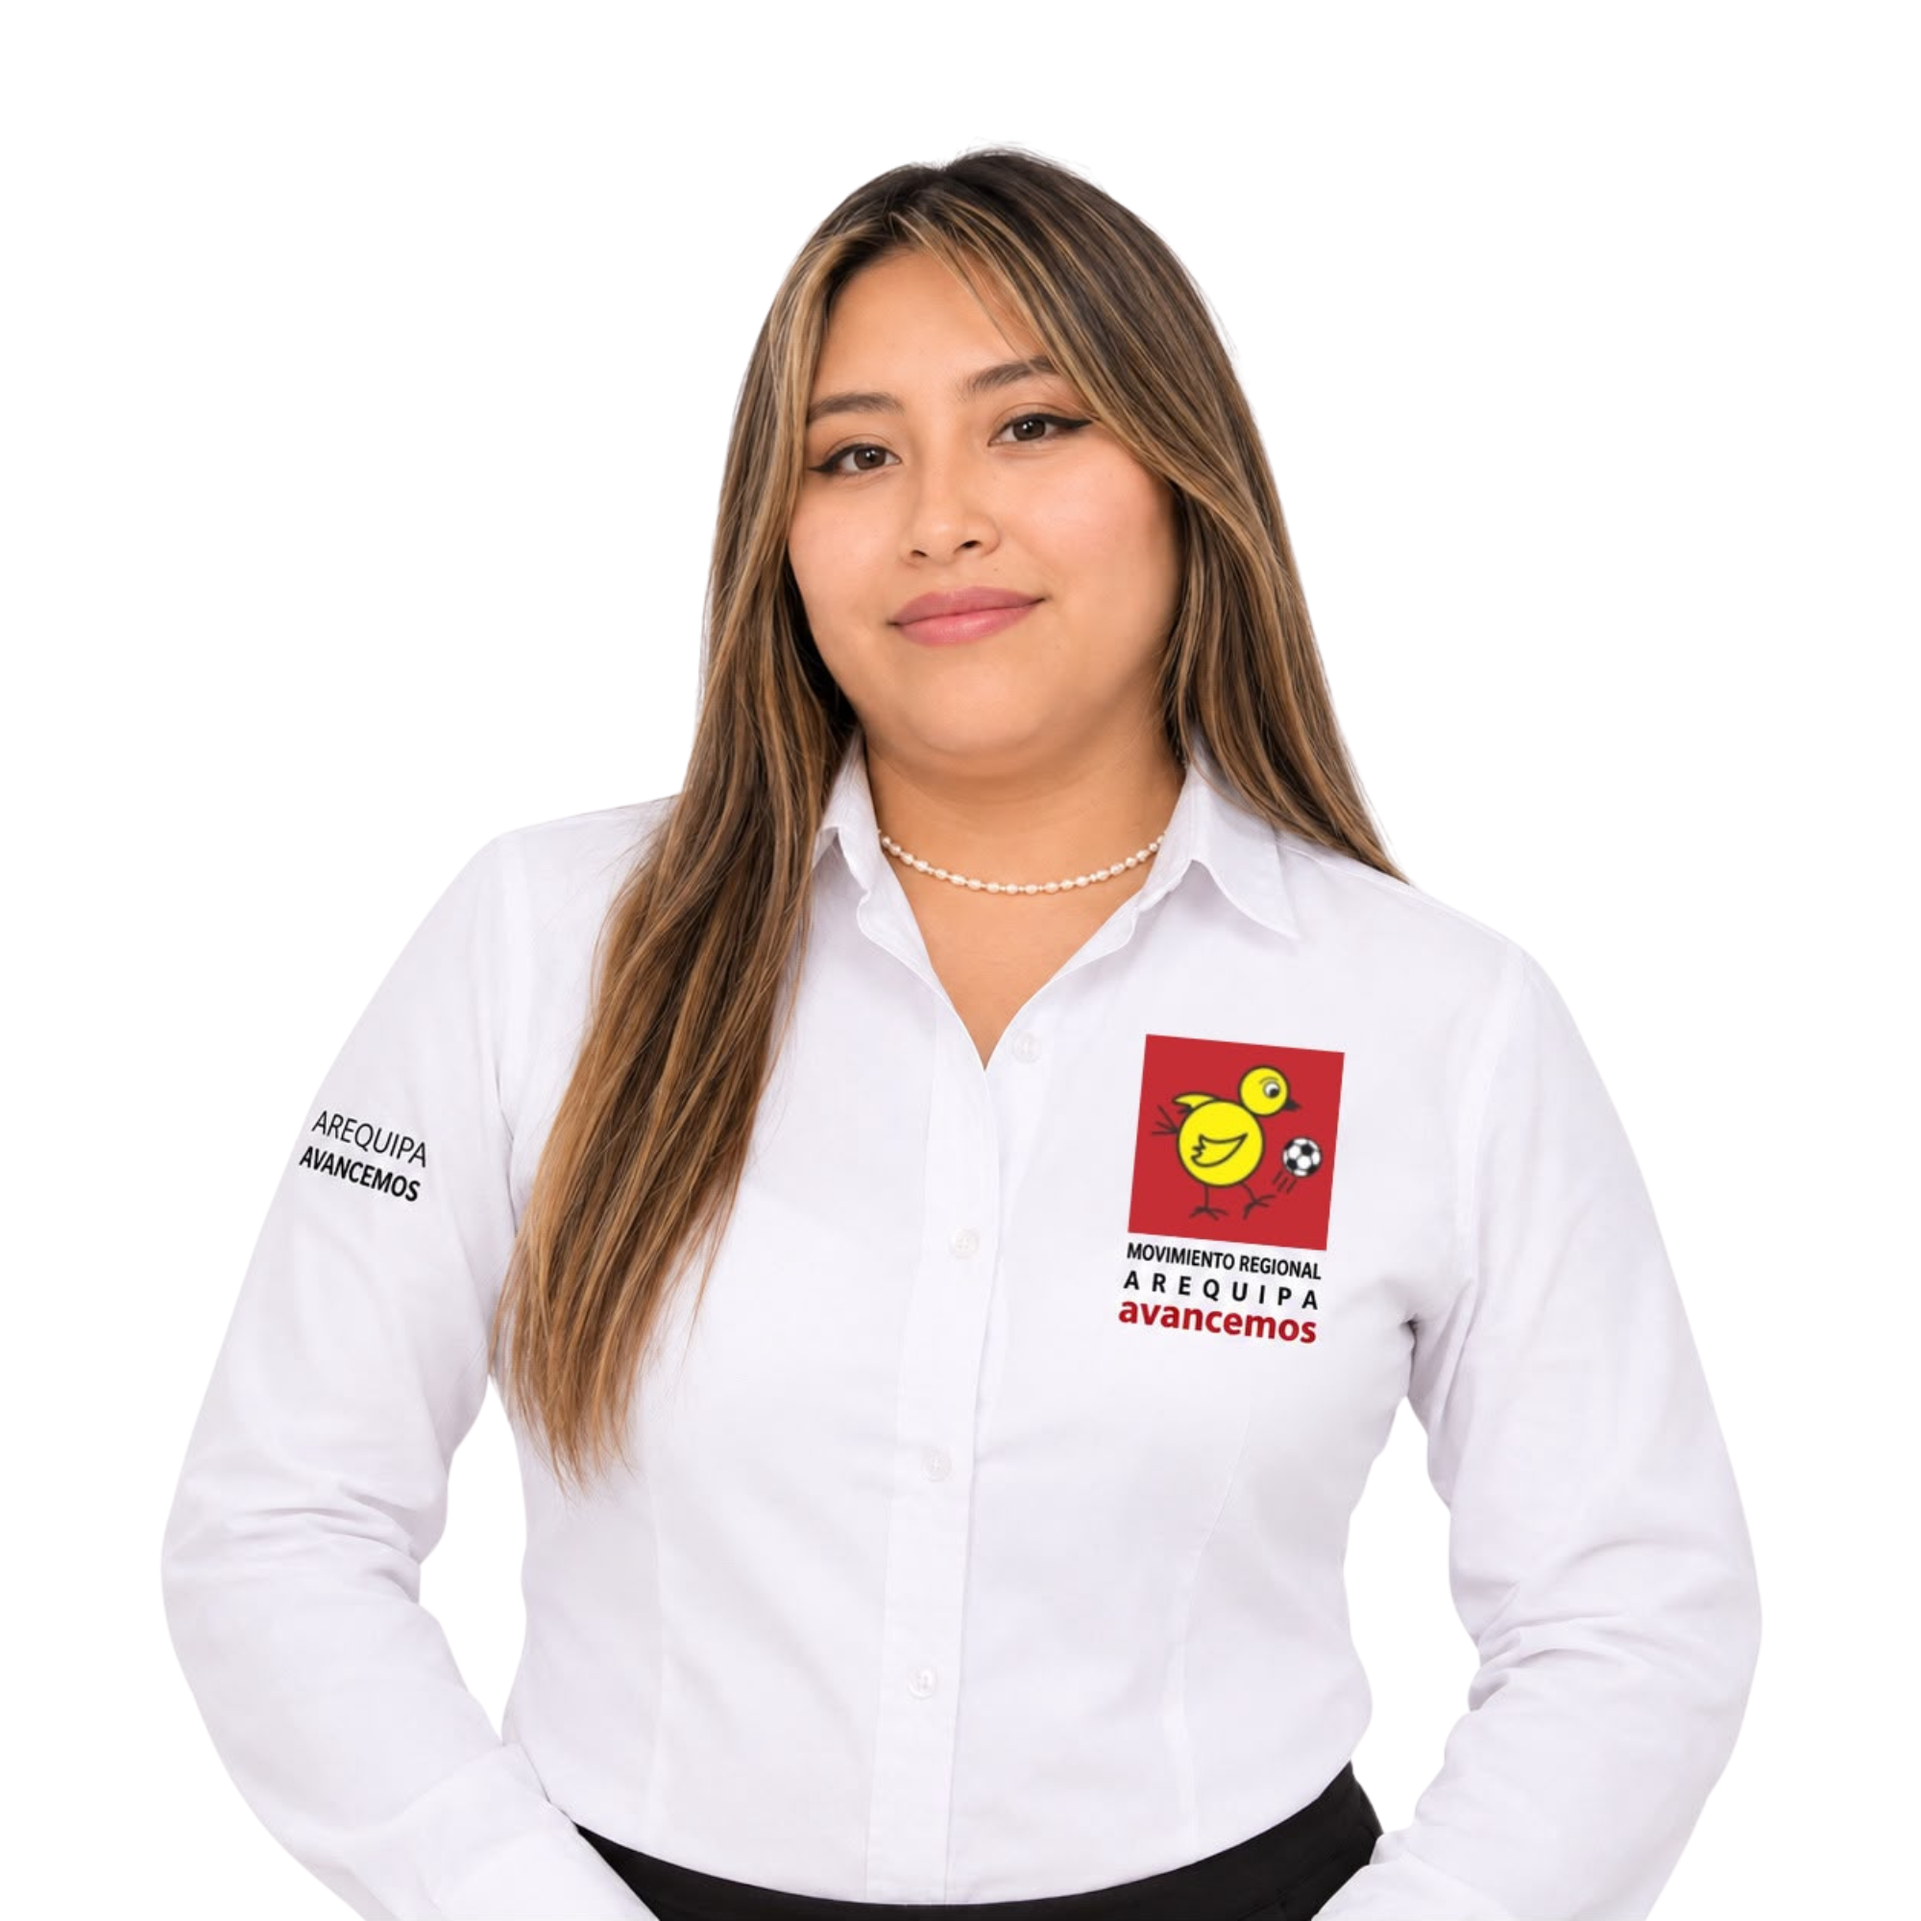
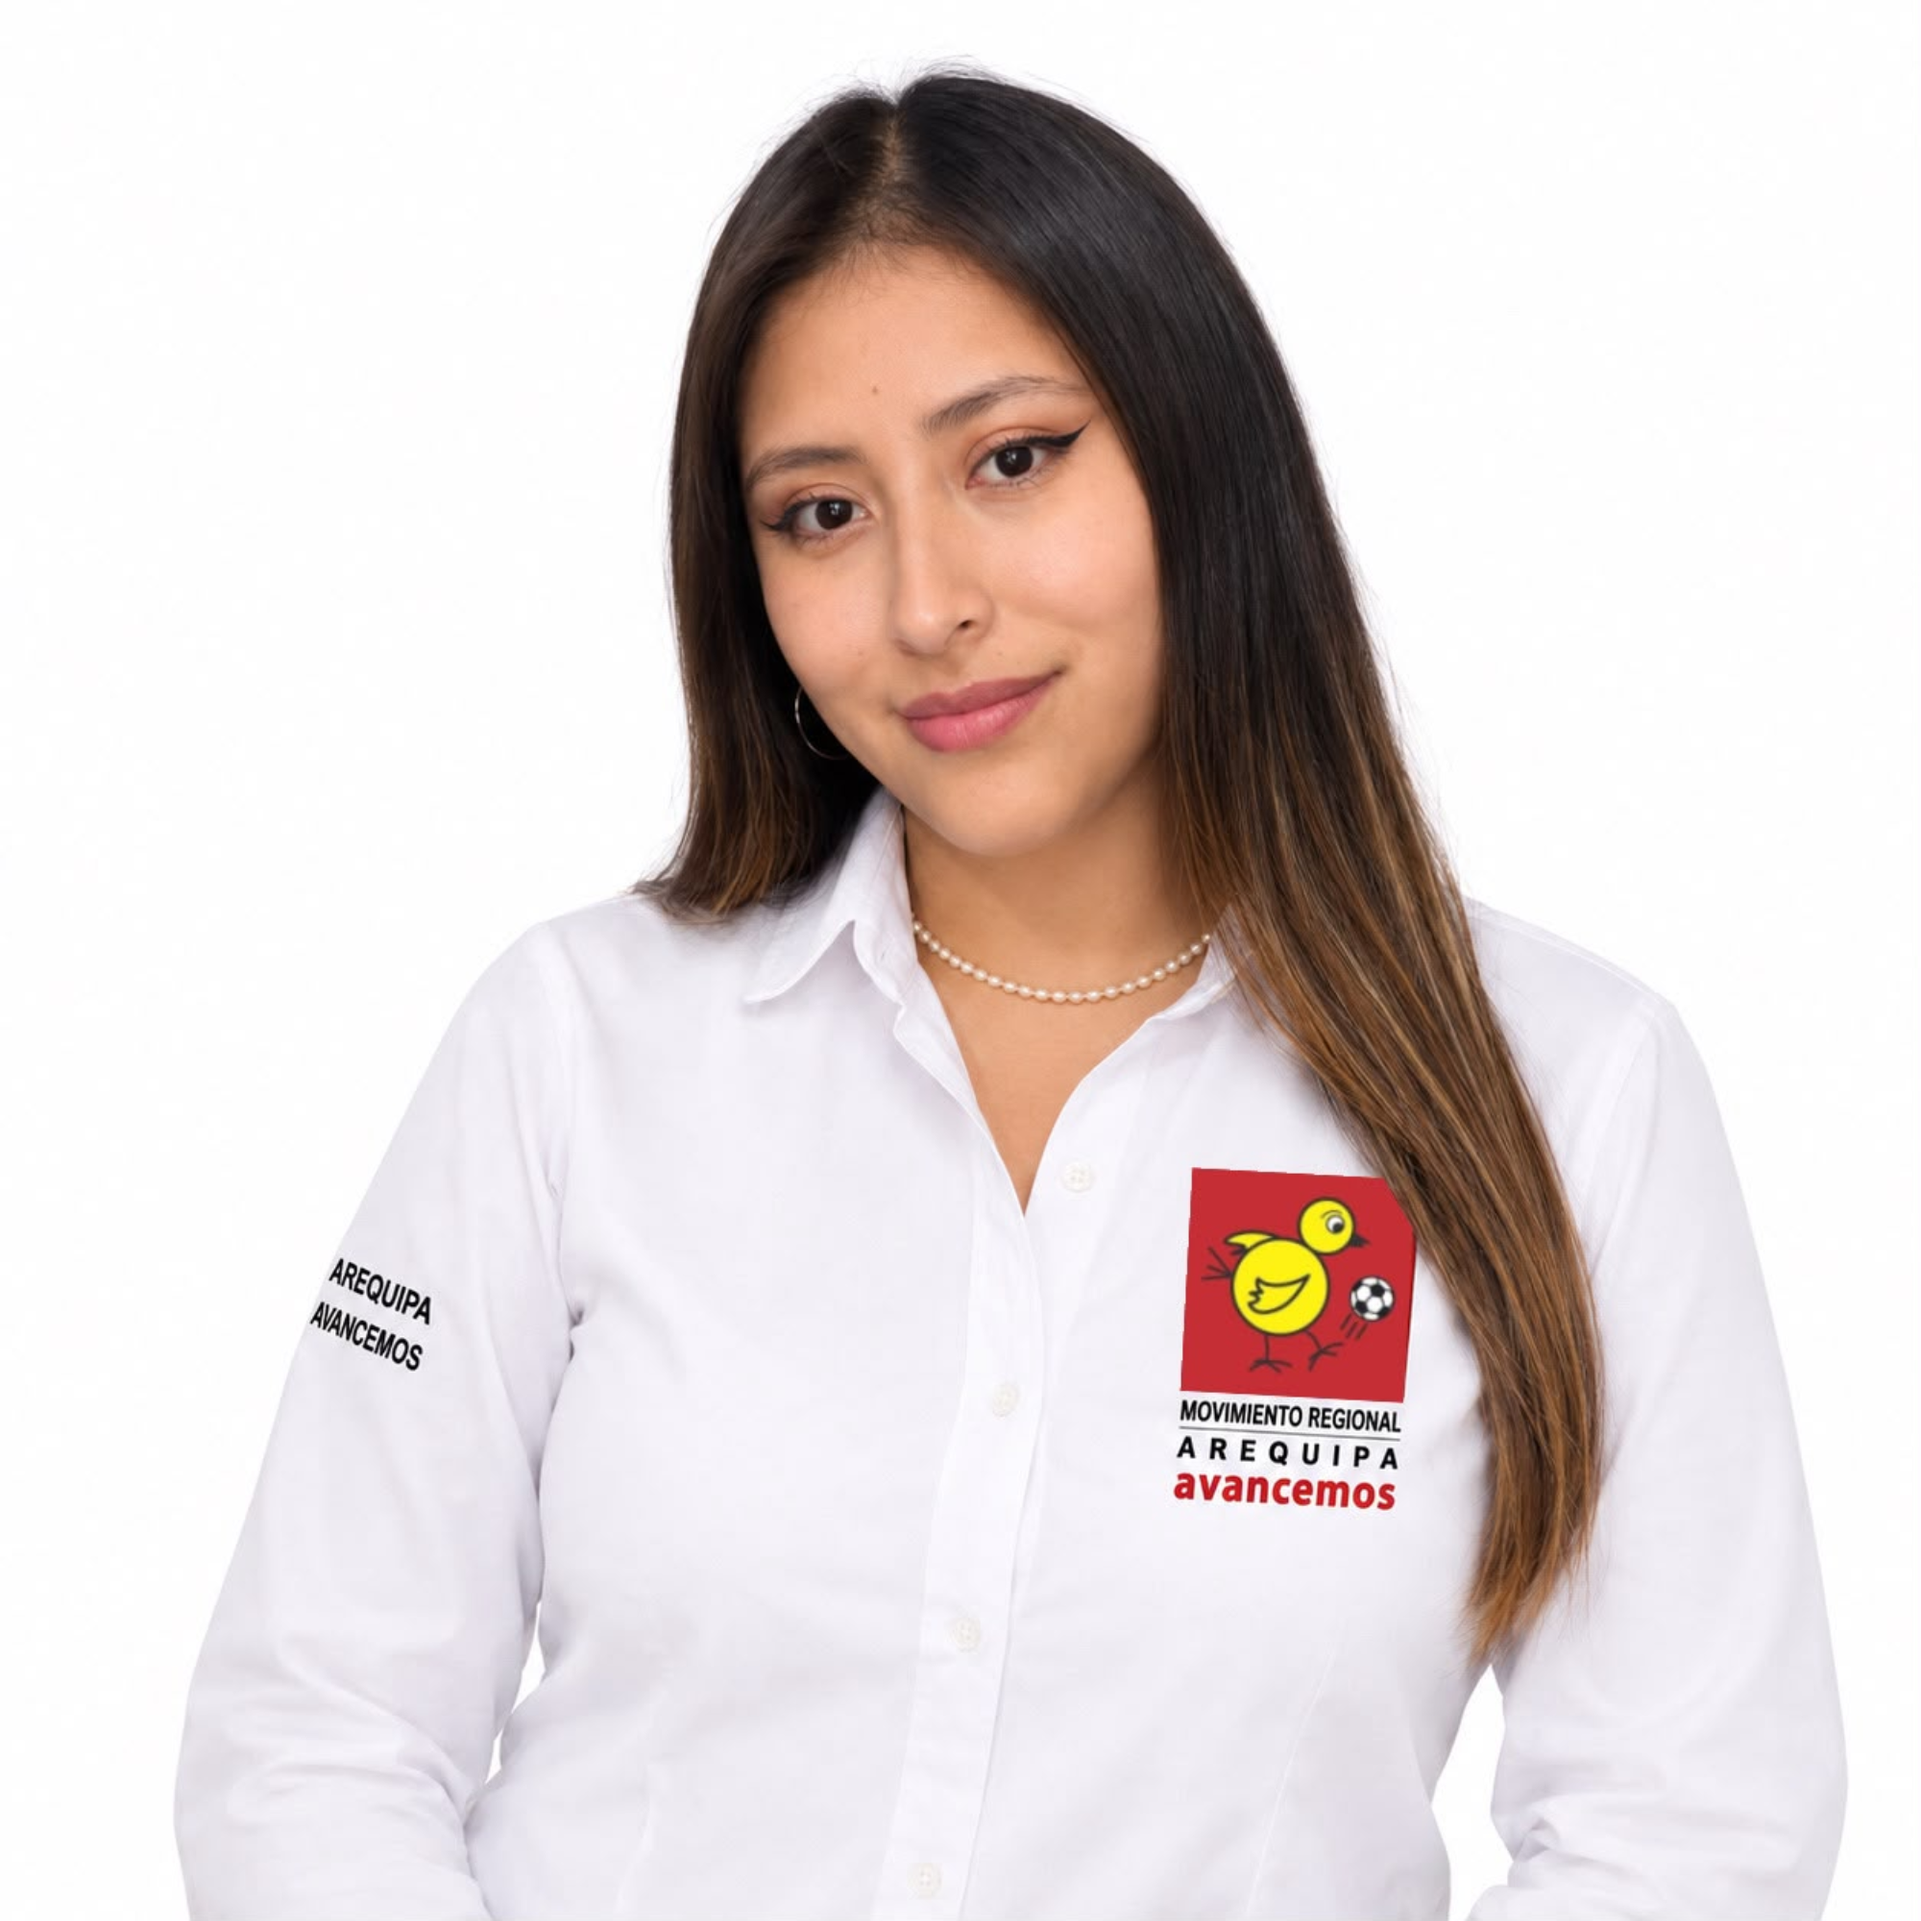
corecciones

diff --git a/src/components/CandidatoModal.jsx b/src/components/CandidatoModal.jsx
@@ -1,5 +1,12 @@
-import { AnimatePresence, motion } from 'framer-motion'
-import { Briefcase, CheckCircle2, Facebook, GraduationCap, Instagram, MessageCircle, X } from 'lucide-react'
+import { AnimatePresence, motion } from "framer-motion";
+import {
+  Briefcase,
+  CheckCircle2,
+  Facebook,
+  GraduationCap,
+  X,
+} from "lucide-react";
+import { FaTiktok } from "react-icons/fa6";
 
 export default function CandidatoModal({ candidato, onClose }) {
   return (
@@ -16,10 +23,12 @@ export default function CandidatoModal({ candidato, onClose }) {
             initial={{ opacity: 0, y: 40, scale: 0.96 }}
             animate={{ opacity: 1, y: 0, scale: 1 }}
             exit={{ opacity: 0, y: 20, scale: 0.96 }}
-            transition={{ duration: 0.3, ease: 'easeOut' }}
+            transition={{ duration: 0.3, ease: "easeOut" }}
             onClick={(e) => e.stopPropagation()}
             className="relative bg-white rounded-3xl shadow-2xl max-w-3xl w-full max-h-[90vh] overflow-y-auto"
           >
+
+            {/* BOTÓN CERRAR */}
             <button
               onClick={onClose}
               aria-label="Cerrar"
@@ -28,84 +37,197 @@ export default function CandidatoModal({ candidato, onClose }) {
               <X size={18} />
             </button>
 
+
+            {/* CONTENIDO PRINCIPAL */}
             <div className="grid sm:grid-cols-[240px_1fr]">
+
+              {/* FOTO */}
               <div className="relative">
-                <img src={candidato.foto} alt={candidato.nombre} className="w-full h-56 sm:h-full object-cover" />
+                <img
+                  src={candidato.foto}
+                  alt={candidato.nombre}
+                  className="w-full h-56 sm:h-full object-cover"
+                />
+
+                {/* NÚMERO */}
                 <span className="absolute top-4 left-4 w-9 h-9 rounded-full bg-brand-red text-white font-bold flex items-center justify-center shadow">
                   {candidato.numero}
                 </span>
               </div>
 
+
+              {/* INFORMACIÓN */}
               <div className="p-6 sm:p-8">
-                <h2 className="font-display font-extrabold text-2xl text-brand-black">{candidato.nombre}</h2>
-                <p className="text-brand-red font-bold text-sm uppercase tracking-wide mt-1">{candidato.cargo}</p>
 
+                {/* NOMBRE */}
+                <h2 className="font-display font-extrabold text-2xl text-brand-black">
+                  {candidato.nombre}
+                </h2>
+
+                {/* CARGO */}
+                <p className="text-brand-red font-bold text-sm uppercase tracking-wide mt-1">
+                  {candidato.cargo}
+                </p>
+
+
+                {/* BIOGRAFÍA */}
                 <div className="mt-5">
-                  <p className="font-bold text-sm text-brand-black mb-1">Biografía</p>
-                  <p className="text-sm text-brand-black/70 leading-relaxed">{candidato.biografia}</p>
+                  <p className="font-bold text-sm text-brand-black mb-1">
+                    Biografía
+                  </p>
+
+                  <p className="text-sm text-brand-black/70 leading-relaxed">
+                    {candidato.biografia}
+                  </p>
                 </div>
 
+
+                {/* FORMACIÓN + EXPERIENCIA */}
                 <div className="mt-4 grid sm:grid-cols-2 gap-4">
+
+                  {/* FORMACIÓN */}
                   <div>
                     <p className="font-bold text-sm text-brand-black mb-1 flex items-center gap-1.5">
-                      <GraduationCap size={16} className="text-brand-red" /> Formación
+                      <GraduationCap
+                        size={16}
+                        className="text-brand-red"
+                      />
+                      Formación
                     </p>
-                    <p className="text-sm text-brand-black/70"><ul className="list-disc pl-5 space-y-1">
-                        {candidato.formacion.map((item, index) => (<li key={index}>{item}</li>))}</ul></p>
+
+                    <ul className="list-disc pl-5 space-y-1 text-sm text-brand-black/70">
+                      {candidato.formacion?.map((item, index) => (
+                        <li key={index}>
+                          {item}
+                        </li>
+                      ))}
+                    </ul>
                   </div>
+
+
+                  {/* EXPERIENCIA */}
                   <div>
                     <p className="font-bold text-sm text-brand-black mb-1 flex items-center gap-1.5">
-                      <Briefcase size={16} className="text-brand-red" /> Experiencia
+                      <Briefcase
+                        size={16}
+                        className="text-brand-red"
+                      />
+                      Experiencia
                     </p>
-                    <p className="text-sm text-brand-black/70">{candidato.experiencia.map((item, index) => (<li key={index}>{item}</li>))}</p>
+
+                    <ul className="list-disc pl-5 space-y-1 text-sm text-brand-black/70">
+                      {candidato.experiencia?.map((item, index) => (
+                        <li key={index}>
+                          {item}
+                        </li>
+                      ))}
+                    </ul>
                   </div>
+
                 </div>
 
+
+                {/* PROPUESTAS */}
                 <div className="mt-5">
-                  <p className="font-bold text-sm text-brand-black mb-2">Propuestas principales</p>
+
+                  <p className="font-bold text-sm text-brand-black mb-2">
+                    Propuestas principales
+                  </p>
+
                   <ul className="space-y-1.5">
-                    {candidato.propuestas.map((p) => (
-                      <li key={p} className="flex items-start gap-2 text-sm text-brand-black/75">
-                        <CheckCircle2 size={16} className="text-brand-red shrink-0 mt-0.5" /> {p}
+
+                    {candidato.propuestas?.map((p) => (
+                      <li
+                        key={p}
+                        className="flex items-start gap-2 text-sm text-brand-black/75"
+                      >
+                        <CheckCircle2
+                          size={16}
+                          className="text-brand-red shrink-0 mt-0.5"
+                        />
+
+                        {p}
                       </li>
                     ))}
+
                   </ul>
+
                 </div>
 
+
+                {/* GALERÍA */}
                 {candidato.galeria?.length > 0 && (
                   <div className="mt-5">
-                    <p className="font-bold text-sm text-brand-black mb-2">Galería</p>
+
+                    <p className="font-bold text-sm text-brand-black mb-2">
+                      Galería
+                    </p>
+
                     <div className="grid grid-cols-4 gap-2">
+
                       {candidato.galeria.map((img, i) => (
-                        <img key={i} src={img} alt="" className="w-full aspect-square object-cover rounded-lg" />
+                        <img
+                          key={i}
+                          src={img}
+                          alt=""
+                          className="w-full aspect-square object-cover rounded-lg"
+                        />
                       ))}
+
                     </div>
+
                   </div>
                 )}
 
-                <div className="mt-6 flex items-center gap-3">
-                  <p className="text-xs font-bold text-brand-black/60 uppercase">Sígueme</p>
-                  {candidato.redes?.facebook && (
-                    <a href={candidato.redes.facebook} target="_blank" rel="noreferrer" className="w-8 h-8 rounded-full bg-brand-black/5 flex items-center justify-center hover:bg-brand-red hover:text-white transition-colors">
-                      <Facebook size={15} />
-                    </a>
-                  )}
-                  {candidato.redes?.instagram && (
-                    <a href={candidato.redes.instagram} target="_blank" rel="noreferrer" className="w-8 h-8 rounded-full bg-brand-black/5 flex items-center justify-center hover:bg-brand-red hover:text-white transition-colors">
-                      <Instagram size={15} />
-                    </a>
-                  )}
-                  {candidato.redes?.whatsapp && (
-                    <a href={candidato.redes.whatsapp} target="_blank" rel="noreferrer" className="w-8 h-8 rounded-full bg-brand-black/5 flex items-center justify-center hover:bg-brand-red hover:text-white transition-colors">
-                      <MessageCircle size={15} />
-                    </a>
-                  )}
-                </div>
+
+                {/* REDES SOCIALES
+                    SOLO PARA EL CANDIDATO ID 1
+                */}
+                {candidato.id === 1 && (
+                  <div className="mt-6 flex items-center gap-3">
+
+                    <p className="text-xs font-bold text-brand-black/60 uppercase">
+                      Sígueme
+                    </p>
+
+
+                    {/* FACEBOOK */}
+                    {candidato.redes?.facebook && (
+                      <a
+                        href={candidato.redes.facebook}
+                        target="_blank"
+                        rel="noopener noreferrer"
+                        aria-label="Facebook"
+                        className="w-8 h-8 rounded-full bg-brand-black/5 flex items-center justify-center hover:bg-brand-red hover:text-white transition-colors"
+                      >
+                        <Facebook size={15} />
+                      </a>
+                    )}
+
+
+                    {/* TIKTOK */}
+                    {candidato.redes?.tiktok && (
+                      <a
+                        href={candidato.redes.tiktok}
+                        target="_blank"
+                        rel="noopener noreferrer"
+                        aria-label="TikTok"
+                        className="w-8 h-8 rounded-full bg-brand-black/5 flex items-center justify-center hover:bg-brand-red hover:text-white transition-colors"
+                      >
+                        <FaTiktok size={15} />
+                      </a>
+                    )}
+
+                  </div>
+                )}
+
               </div>
+
             </div>
+
           </motion.div>
         </motion.div>
       )}
     </AnimatePresence>
-  )
+  );
 }

diff --git a/src/components/Footer.jsx b/src/components/Footer.jsx
@@ -116,7 +116,7 @@ export default function Footer() {
         {/* Línea inferior */}
 
         <div className="mt-14 pt-6 border-t border-white/10 text-center text-sm text-white/40">
-          © {year} Arequipa Avancemos. Todos los derechos reservados.
+          © {year} Alto Selva Alegre · Desarrollo web por Milene Pacheco.
         </div>
 
       </div>
